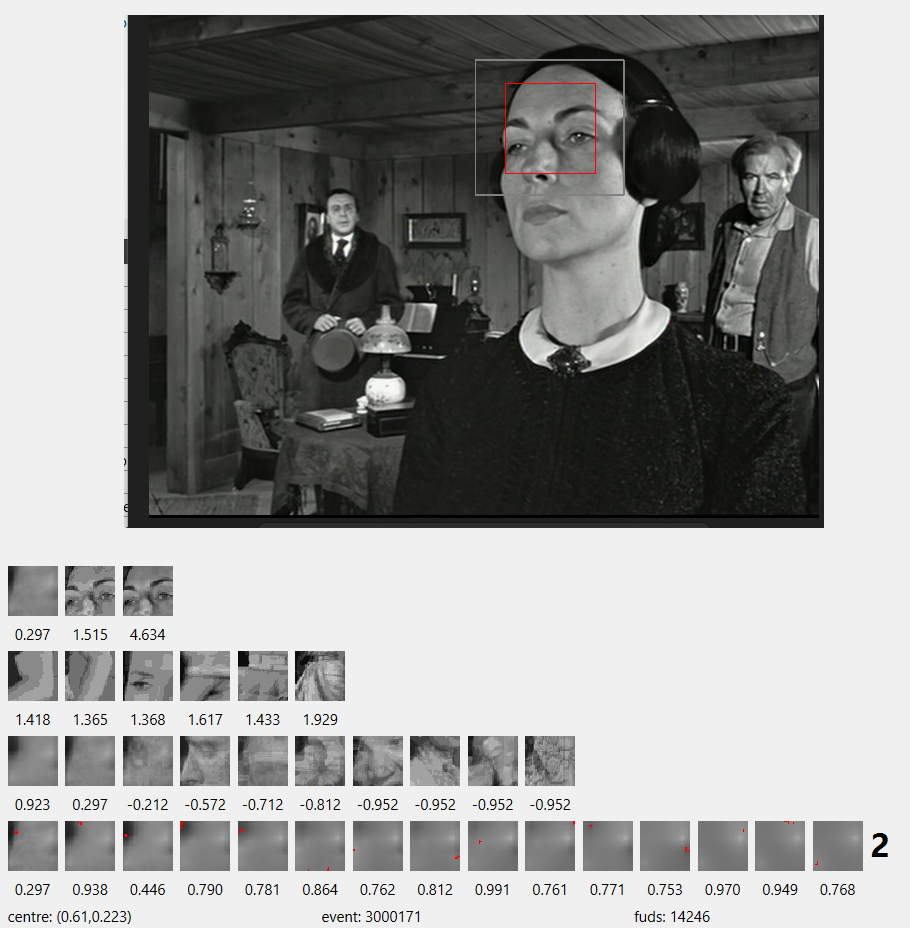
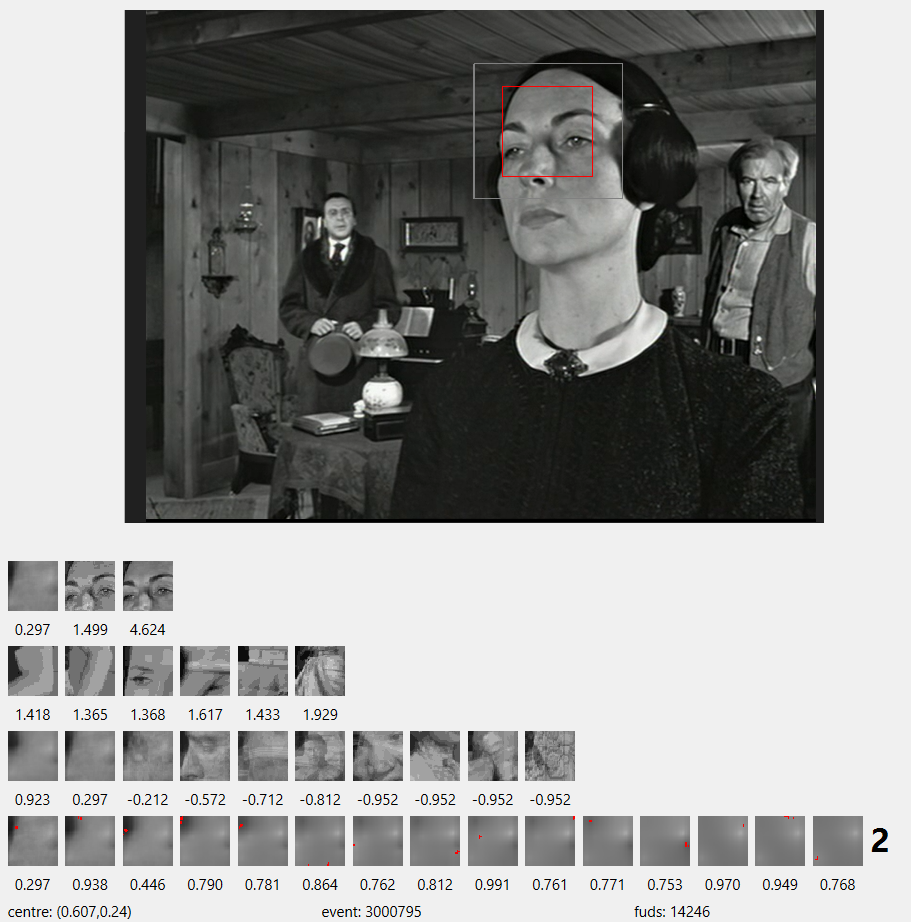
fix to highlighted underlying

diff --git a/win007.cpp b/win007.cpp
@@ -1228,7 +1228,7 @@ void Win007::act()
 					double likelihood = (std::log(sliceSize) - std::log(parentSize) + lnwmax)/lnwmax;
 					ancestors.push_back(std::make_pair(likelihood, sliceA));
 					ancestorHighlights.push_back(SizeSet());
-					if (_guiUnderlying)
+					if (_guiUnderlying && sliceA)
 					{
 						auto& fud = dr.fuds[vi[parent]].fud;
 						auto& highlights = ancestorHighlights.back();
